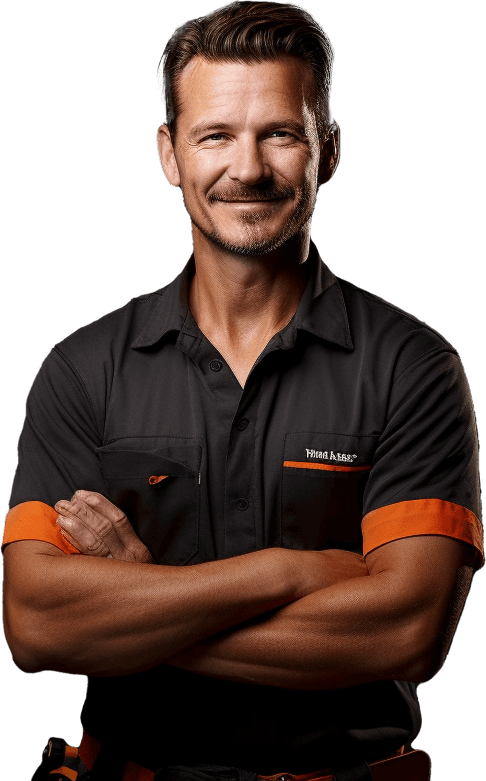
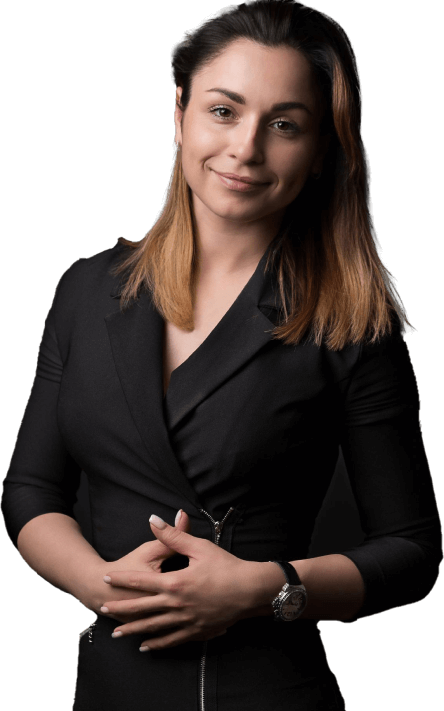
V6

diff --git a/assets/css/style.css b/assets/css/style.css
@@ -5776,7 +5776,7 @@
 .button-area-banner-two .hero-secondary-btn {
   background: rgba(22, 22, 22, 0.3);
   border: 0.5px solid rgba(255, 255, 255, 0.08);
-  box-shadow: 15px 26.023px 50px 0px rgba(253, 196, 72, 0.04);
+  box-shadow: 0 10px 24px rgba(253, 196, 72, 0.015);
   backdrop-filter: blur(35px);
   color: var(--color-white);
 }
@@ -5788,7 +5788,9 @@
   align-items: center;
   gap: 28px;
   flex-wrap: wrap;
-  margin-top: 24px;
+  margin-top: 32px;
+  position: relative;
+  top: 4px;
 }
 .hero-contact-item {
   display: inline-flex;
@@ -5798,18 +5800,27 @@
   font-family: var(--font-secondary);
   font-size: 18px;
   line-height: 1.6;
+  position: relative;
+  top: 2px;
 }
 .hero-contact-item a,
 .hero-contact-item span {
   color: inherit;
 }
+.hero-contact-item a {
+  display: inline-block;
+  color: #cfcfcf;
+  transition: transform 0.3s ease, color 0.3s ease;
+}
 .hero-contact-item a:hover {
-  color: var(--color-primary);
+  color: #f4f4f4;
+  transform: scale(1.035);
 }
 .hero-contact-dot {
   color: var(--color-primary);
-  font-size: 18px;
+  font-size: 20px;
   line-height: 1;
+  font-weight: 700;
 }
 
 #work-experience .about-us-card,
@@ -5817,18 +5828,38 @@
   border-radius: 20px;
   border: 0.5px solid rgba(255, 255, 255, 0.05);
   background: rgba(22, 22, 22, 0.3);
-  box-shadow: 15px 26.023px 50px 0px rgba(253, 196, 72, 0.04);
+  box-shadow: 0 10px 24px rgba(253, 196, 72, 0.015);
   backdrop-filter: blur(35px);
+}
+#work-experience .about-us-card::after,
+#education .resume-single::after {
+  display: none;
+}
+#education {
+  position: relative;
+  overflow: hidden;
+}
+#education::before {
+  content: "";
+  position: absolute;
+  width: 380px;
+  height: 380px;
+  left: 50%;
+  top: 120px;
+  transform: translateX(-12%);
+  background: linear-gradient(0deg, rgba(255, 1, 79, 0) 15.49%, var(--color-primary) 100%);
+  filter: blur(6px);
+  border-radius: 100%;
+  opacity: 0.45;
+  z-index: 0;
+  pointer-events: none;
+}
+#education .container {
+  position: relative;
+  z-index: 1;
 }
 #education .resume-single {
   padding: 30px;
-}
-#education .resume-single::after {
-  transition: all 0.8s ease;
-}
-#education .resume-single:hover::after {
-  background: var(--color-primary);
-  opacity: 1;
 }
 
 .skill-chip-list {
@@ -5841,15 +5872,23 @@
   align-items: center;
   justify-content: center;
   padding: 10px 18px;
-  border-radius: 14px;
+  border-radius: 16px;
   border: 0.5px solid rgba(255, 255, 255, 0.08);
-  background: linear-gradient(135deg, rgba(255, 1, 79, 0.16) 0%, rgba(22, 22, 22, 0.42) 100%);
-  box-shadow: 15px 26.023px 50px 0px rgba(253, 196, 72, 0.03);
+  background: linear-gradient(135deg, rgba(255, 1, 79, 0.12) 0%, rgba(22, 22, 22, 0.3) 100%);
+  box-shadow: 0 10px 24px rgba(253, 196, 72, 0.012);
   backdrop-filter: blur(35px);
   color: var(--color-heading);
   font-family: var(--font-secondary);
   font-size: 18px;
   line-height: 1.6;
+  transition: transform 0.3s ease, color 0.3s ease, background 0.3s ease, border-color 0.3s ease, box-shadow 0.3s ease;
+}
+.skill-chip:hover {
+  transform: scale(1.035);
+  color: #f5f5f5;
+  background: linear-gradient(135deg, rgba(255, 1, 79, 0.16) 0%, rgba(22, 22, 22, 0.34) 100%);
+  border-color: rgba(255, 255, 255, 0.12);
+  box-shadow: 0 10px 24px rgba(253, 196, 72, 0.02);
 }
 
 @media only screen and (max-width: 1199px) {

diff --git a/templates/index.html b/templates/index.html
@@ -161,7 +161,7 @@
 <span class="btn-icon"><i class="fa-sharp fa-regular fa-arrow-right"></i></span>
 </span>
 </a>
-<a class="tmp-btn hover-icon-reverse radius-round hero-secondary-btn" href="#"><span class="icon-reverse-wrapper"><span class="btn-text">Резюме</span><span class="btn-icon"><i class="fa-sharp fa-regular fa-arrow-right"></i></span><span class="btn-icon"><i class="fa-sharp fa-regular fa-arrow-right"></i></span></span></a></div><div class="hero-contact-line tmp-scroll-trigger tmp-fade-in animation-order-5"><span class="hero-contact-item"><span class="hero-contact-dot">•</span><span>[email redacted]</span></span><span class="hero-contact-item"><span class="hero-contact-dot">•</span><span>+7 991-324-27-44</span></span><span class="hero-contact-item"><span class="hero-contact-dot">•</span><a href="https://t.me/ooooppsssss" rel="noopener noreferrer" target="_blank">Telegram</a></span></div>
+<a class="tmp-btn hover-icon-reverse radius-round hero-secondary-btn" href="#"><span class="icon-reverse-wrapper"><span class="btn-text">Резюме</span><span class="btn-icon"><i class="fa-sharp fa-regular fa-arrow-right"></i></span><span class="btn-icon"><i class="fa-sharp fa-regular fa-arrow-right"></i></span></span></a></div><div class="hero-contact-line tmp-scroll-trigger tmp-fade-in animation-order-5"><span class="hero-contact-item"><span class="hero-contact-dot">•</span><a href="mailto:[email redacted]">[email redacted]</a></span><span class="hero-contact-item"><span class="hero-contact-dot">•</span><a href="tel:+79913242744">+7 991-324-27-44</a></span><span class="hero-contact-item"><span class="hero-contact-dot">•</span><a href="https://t.me/ooooppsssss" rel="noopener noreferrer" target="_blank">Telegram</a></span></div>
 </div>
 </div>
 </div>
@@ -232,7 +232,7 @@
 </div>
 <div class="about-us-section-card row g-5">
 <div class="col-lg-6 col-md-6 col-sm-12">
-<div class="about-us-card tmponhover tmp-scroll-trigger tmp-fade-in animation-order-2">
+<div class="about-us-card tmp-scroll-trigger tmp-fade-in animation-order-2">
 <div class="card-head">
 <div class="logo-img"><img alt="logo" src="assets/images/about/logo-1.svg"/></div>
 <h3 class="card-title">Ведущий специалист технической поддержки 1L</h3>
@@ -242,7 +242,7 @@
 </div>
 </div>
 <div class="col-lg-6 col-md-6 col-sm-12">
-<div class="about-us-card tmponhover tmp-scroll-trigger tmp-fade-in animation-order-3">
+<div class="about-us-card tmp-scroll-trigger tmp-fade-in animation-order-3">
 <div class="card-head">
 <div class="logo-img"><img alt="logo" src="assets/images/about/logo-2.svg"/></div>
 <h3 class="card-title">Старший специалист технической поддержки 2L</h3>